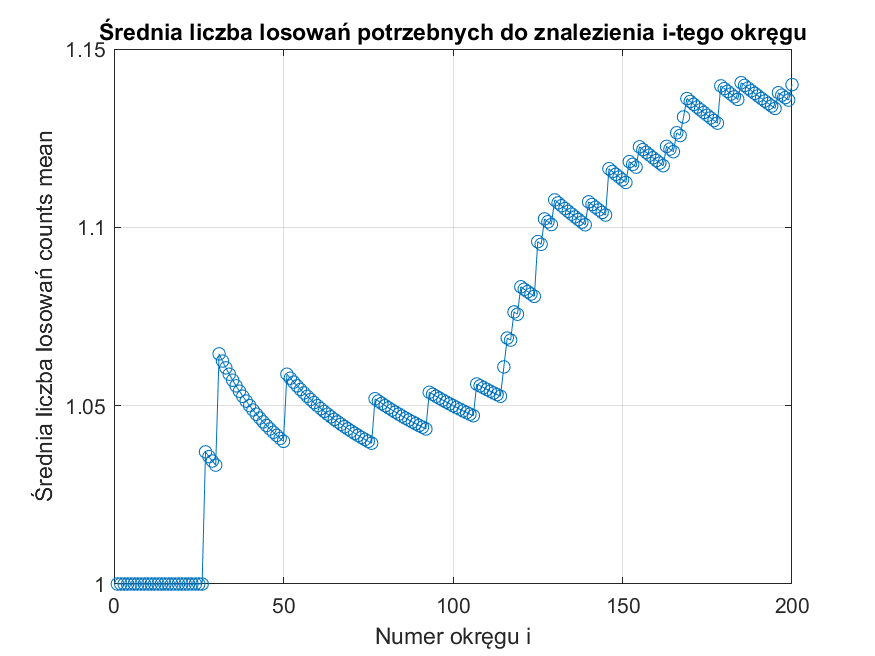
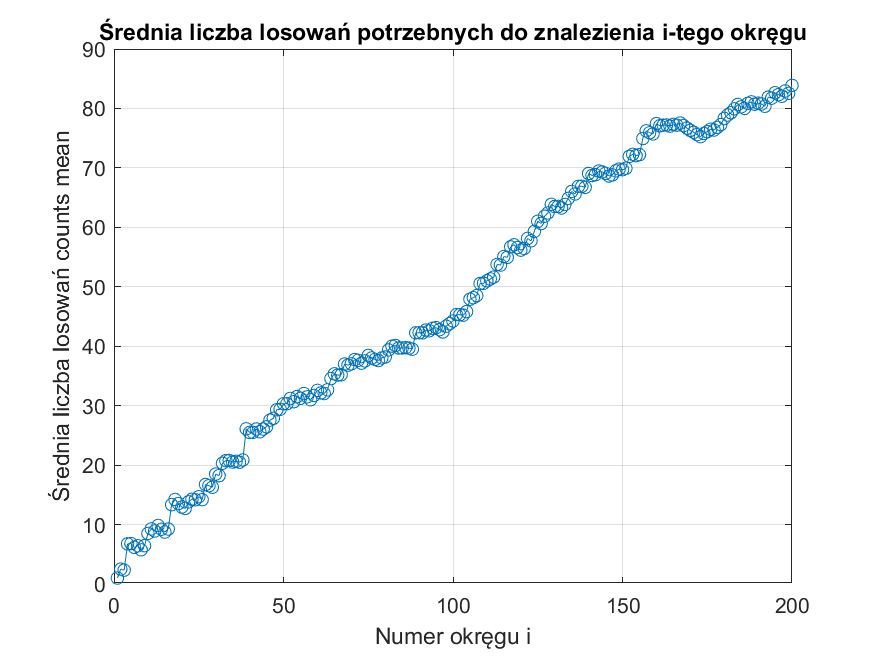
develop lab2 programs

diff --git a/lab2/generate_circles.m b/lab2/generate_circles.m
@@ -1,18 +1,19 @@
+% 2. task
 function [circles, index_number, circle_areas, rand_counts, counts_mean] = generate_circles(a, r_max, n_max)
     index_number = 193257;
-    circles = zeros(3, n_max); % Macierz okręgów
-    area_vector = zeros(1, n_max); % Wektor pól okręgów
-    rand_counts = zeros(1, n_max); % Wektor liczby losowań potrzebnych do znalezienia każdego okręgu
-    counts_mean = zeros(1, n_max); % Wektor średniej liczby losowań do znalezienia i okręgów
+    circles = zeros(3, n_max);      % Macierz okręgów
+    area_vector = zeros(1, n_max);  % Wektor pól okręgów
+    rand_counts = zeros(1, n_max);  % Wektor liczby losowań potrzebnych do znalezienia każdego okręgu
+    counts_mean = zeros(1, n_max);  % Wektor średniej liczby losowań do znalezienia i okręgów
 
     circle_count = 0; % Licznik dodanych okręgów
 
     for i = 1:n_max
-        valid = false; % Flaga weryfikująca poprawność okręgu
-        attempts = 0; % Licznik prób dla danego okręgu
+        valid = false;  % Flaga weryfikująca poprawność okręgu
+        attempts = 0;   % Licznik prób dla danego okręgu
         
         while ~valid && attempts < 1000
-            R = rand() * r_max; % Losowy promień
+            R = rand() * r_max;         % Losowy promień
             X = rand() * (a - 2*R) + R; % Losowa współrzędna X
             Y = rand() * (a - 2*R) + R; % Losowa współrzędna Y
             

diff --git a/lab2/plot_circle_areas.m b/lab2/plot_circle_areas.m
@@ -1,12 +1,13 @@
+% 3. task
 function plot_circle_areas(circle_areas)
-    % Funkcja generuje wykres wektora circle_areas i zapisuje go do pliku.
+    % The function generates a plot of the circle_areas vector and saves it to a file.
 
-    figure; % Tworzy nowe okno dla wykresu
-    plot(circle_areas, 'o-'); % Generuje wykres liniowy z markerami w postaci kółek
-    xlabel('Numer okręgu'); % Opis osi X
-    ylabel('Suma pól powierzchni do tego okręgu'); % Opis osi Y
-    title('Sumaryczne pole powierzchni okręgów'); % Tytuł wykresu
+    figure; % Create new window for the plot
+    plot(circle_areas, 'o-');   % Generates a line plot with circle markers
+    xlabel('Circle number');    % X axis description
+    ylabel('Total area of circles up to this one');  % Y axis description
+    title('Cumulative area of circles');             % Plot title
     
-    % Zapisanie wykresu do pliku PNG
+    % Saving the plot to a PNG file
     %saveas(gcf, 'zadanie3.png');
 end

diff --git a/lab2/page_rank.m b/lab2/page_rank.m
@@ -2,13 +2,14 @@ function [numer_indeksu, Edges, I, B, A, b, r] = page_rank()
     numer_indeksu = 193257;
 
     % Macierz pełna Edges dla zmodyfikowanej sieci
-    % bez użycia sparce (rzadka), bo ma być pełna
+    % bez użycia sparse (rzadka), bo ma być pełna
     Edges = [1, 1, 2, 2, 2, 3, 3, 3, 3, 4, 4, 5, 5, 6, 6, 7, 8;
-                    4, 6, 3, 4, 5, 5, 6, 7, 8, 5, 6, 4, 6, 4, 7, 6, 6];
-    N = 8; % Liczba stron w zmodyfikowanej sieci
-    d = 0.85; % Współczynnik tłumienia
+             4, 6, 3, 4, 5, 5, 6, 7, 8, 5, 6, 4, 6, 4, 7, 6, 6];
+    N = 8;      % Liczba stron w zmodyfikowanej sieci
+    d = 0.85;   % Damping factor
 
     % Macierz jednostkowa I
+    % Sparse identity matrix
     I = speye(N);
 
     % Macierz sąsiedztwa B
@@ -23,6 +24,7 @@ function [numer_indeksu, Edges, I, B, A, b, r] = page_rank()
 
     % Rozwiązanie równania liniowego
     M = I - d * B * A;
+    % PageRank dla N liczb
     r = M \ b;
 
     plot_PageRank(r)

diff --git a/lab2/main.m b/lab2/main.m
@@ -1,14 +1,27 @@
 clear all;
 close all;
+clc;
 format compact;
 
-a = 100;
-r_max = 2;
-n_max = 200;
+a = 100;        % max square size
+r_max = 50;      % max radius
+n_max = 50;    % max elements
 
+% 1. part
 %[circles, index_number] = generate_circles(a, r_max, n_max);
-%plot_circles(a, circles, index_number); 
-%print -dpng zadanie1.png
 
+
+% 2. part
+%[circles, index_number, circle_areas] = generate_circles(a, r_max, n_max);
+%plot_circle_areas(circle_areas);
+%print -dpng zadanie3.png 
+
+% 3. part
 [circles, index_number, circle_areas, rand_counts, counts_mean] = generate_circles(a, r_max, n_max);
-plot_counts_mean(counts_mean)
+plot_circles(a, circles, index_number); 
+print -dpng zadanie1.png
+%plot_counts_mean(counts_mean)
+
+
+plot_circle_areas(circle_areas);
+print -dpng zadanie3.png

diff --git a/lab2/main_page.m b/lab2/main_page.m
@@ -1,6 +1,10 @@
-%[numer_indeksu, Edges, I, B, A, b, r] = page_rank()
-page_rank()
+clear all;
+close all;
+clc;
+format compact;
 
-% Wypisanie najbardziej istotnej strony
+[numer_indeksu, Edges, I, B, A, b, r] = page_rank()
+
+% Print the most important site
 [val, idx] = max(r);
 fprintf('Najbardziej istotna strona: %d\n', idx);
